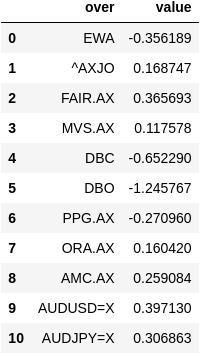
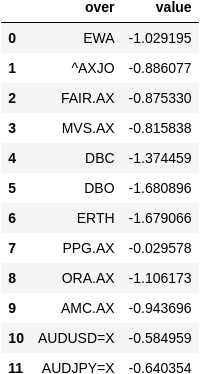
Added monthly plots and sustainable global etf

diff --git a/first_doc.py b/first_doc.py
@@ -22,11 +22,13 @@ import statsmodels.api as sm
 def log_return(series):
     return np.log(series).diff()
 
-ticker = 'PGH.AX'
-
-PGH_ = yf.Ticker(ticker)
-pgh = PGH_.history(period='3y', interva='1d')
-
+def to_monthly(df, last_day=False):
+    if last_day==False:
+        out = df.groupby([df.index.year, df.index.month]).head(1)
+    else:
+        out = df.groupby([df.index.year, df.index.month]).tail(1)
+    return out
+ 
 def calcs(df):
     df['log_return'] = log_return(df['Close'])
     df['cum_ret'] = np.exp(df['log_return'].cumsum())
@@ -52,18 +54,24 @@ def graph1(df, title):
     axs[1].set_title('Cumulative Return')
     
     path = f"plots/{title}.png"
-    if not os.path.exists(path):
-        fig.savefig(f"plots/{title}.png", format='png')
+    # if not os.path.exists(path):
+    fig.savefig(f"plots/{title}.png", format='png')
     fig.show()
 
+   
 
+# Download PGH data
+ticker = 'PGH.AX'
+
+PGH_ = yf.Ticker(ticker)
+pgh = PGH_.history(period='5y', interva='1d')
 pgh = calcs(pgh)
 graph1(pgh, 'Price of PGH.AX')
 
 # From pandemic low
-pandemic_bottom = '2020-03-20'
+pandemic_bottom = '1900-01-01'
 pgh1 = calcs(pgh.loc[pgh.index>=pandemic_bottom])
-graph1(pgh1, 'Price of PGH.AX from pandemic low')
+# graph1(pgh1, 'Price of PGH.AX from pandemic low')
 
 # Check relevant ETFs
 indexes = {'EWA': 'iShares MSCI-Australia ETF',
@@ -71,7 +79,9 @@ indexes = {'EWA': 'iShares MSCI-Australia ETF',
            'FAIR.AX': 'Betashares Australian Sustainability Leaders ETF ',
            'MVS.AX': 'VanEck Vectors Small Companies Masters ETF',
            'DBC': 'Invesco DB Commodity Index Tracking Fund',
-           'DBO': 'Invesco DB Oil Fund'}
+           'DBO': 'Invesco DB Oil Fund',
+           #Sustainable ETFs
+           'ERTH':'Invesco MSCI Sustainable Future ETF '}
 
 currencies = {'AUDUSD=X': 'AUD/USD',
               'AUDJPY=X': 'AUD/JPY'}
@@ -85,11 +95,14 @@ competitors = {'PPG.AX': 'Pro-Pac Packaging Limited', #101M
 #Linear regressions
 def prep_features(df, df2):
     # df = df.loc[df.index>=pandemic_bottom]
-
-    data = df[['log_return']].join(df2['log_return'], rsuffix='_pact')
+    data = df[['log_return']].join(df2['log_return'], rsuffix='_pact') 
     data = data.dropna()
+    # data = to_monthly(data, last_day=(False))
+    # print(data)
     data['log_return'] = data['log_return']/data['log_return'].max()
     data['log_return_pact'] = data['log_return_pact']/data['log_return_pact'].max()
+    
+    # print(data)
     return data
 
 # plot returns
@@ -139,7 +152,7 @@ cum_ret = pgh1[['cum_ret']]
 
 for i in list(indexes):
     bench = yf.Ticker(i)
-    bench = bench.history(period='3y', interval='1d')
+    bench = bench.history(period='5y', interval='1d')
     #Calculate returns, cum_ret
     bench = calcs(bench.loc[bench.index>=pandemic_bottom])
     
@@ -163,7 +176,7 @@ for i in list(indexes):
 
 for i in list(competitors):
     bench = yf.Ticker(i)
-    bench = bench.history(period='3y', interval='1d')
+    bench = bench.history(period='5y', interval='1d')
     #Calculate returns, cum_ret
     bench = calcs(bench.loc[bench.index>=pandemic_bottom])
     
@@ -186,10 +199,10 @@ for i in list(competitors):
         
 for i in list(currencies):
     bench = yf.Ticker(i)
-    bench = bench.history(period='3y', interval='1d')
+    bench = bench.history(period='5y', interval='1d')
     #Calculate returns, cum_ret
     bench = calcs(bench.loc[bench.index>=pandemic_bottom])
-    
+    # print(bench)
     #Save data to two dfs
     col_name = i+'_log_return'
     col_name1 = i+'_cum_ret'
@@ -226,23 +239,28 @@ path = "plots/cum_returns.png"
 fig.savefig(path, format='png')
 fig.show()
 
-#Regression of pgh,asx200
-pgh = prices['log_return']
-asx = prices['^AXJO_log_return']
 
-lm = sm.OLS(pgh, asx)
-res = lm.fit()
-pred = res.predict(asx)
 
-with open('summary.txt', 'w') as fh:
-    fh.write(res.summary().as_text())
 
-print(res.summary())
+
+
+
+
+
+
+
+
+
+
+
+# #Regression of pgh,asx200
+# pgh = prices['log_return']
+# asx = prices['^AXJO_log_return']
+
+# lm = sm.OLS(pgh, asx)
+# res = lm.fit()
+# pred = res.predict(asx)
     
-reg = LinearRegression().fit(asx.values.reshape(-1,1), pgh.values.reshape(-1,1))
-pred = reg.predict(asx.values.reshape(-1,1))    
-score = reg.score(asx.values.reshape(-1,1), pgh.values.reshape(-1,1))
-reg.coef_
 
 
 
